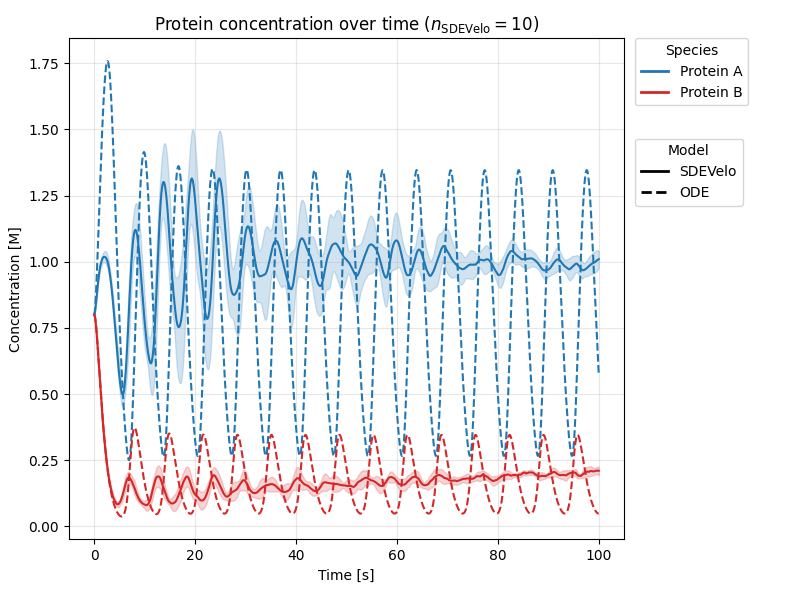
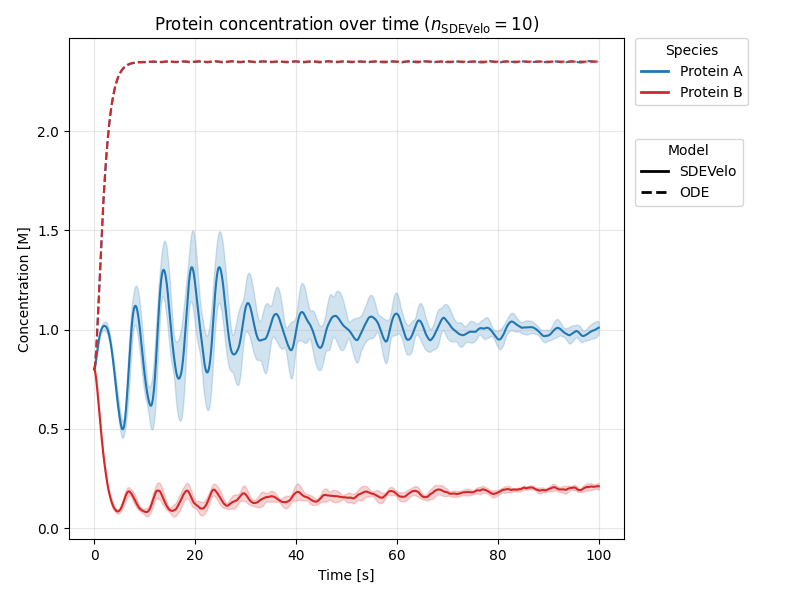
update plots (once again)

diff --git a/assignment2/main.py b/assignment2/main.py
@@ -301,7 +301,7 @@ def sdevelo_phase_portrait(
     label_ode="ODE Trajectory", 
     savefig=None, 
     title="", 
-    ode_args=(), 
+    ode_args=(False), 
     padding=0.1, 
     grid_size=20,
     show_vector_field=True
@@ -366,7 +366,6 @@ def sdevelo_phase_portrait(
 
     ax.plot(pA_sde, pB_sde, label=label_sde, color="tab:purple", zorder=4, alpha=0.6)
     ax.scatter(pA_sde[0], pB_sde[0], color="tab:purple", marker="o", zorder=5, label="Initial state (SDE)")
-    ax.scatter(pA_sde[-1], pB_sde[-1], color="tab:purple", marker="v", zorder=5, label="Final state (SDE)")
 
     ax.set_xlabel("Protein A Concentration [M]")
     ax.set_ylabel("Protein B Concentration [M]")
@@ -381,9 +380,8 @@ def sdevelo_phase_portrait(
         
     if sol_ode is not None:
         ode_start_proxy = Line2D([0], [0], color='tab:orange', marker='o', markersize=6, linestyle='None')
-        ode_end_proxy = Line2D([0], [0], color='tab:orange', marker='v', markersize=6, linestyle='None')
-        handles.extend([ode_start_proxy, ode_end_proxy])
-        labels.extend(["Initial state (ODE)", "Final state (ODE)"])
+        handles.extend([ode_start_proxy])
+        labels.extend(["Initial state (ODE)"])
 
     ax.legend(handles=handles, labels=labels, loc='best', fontsize='small')
     ax.set_title(title)
@@ -669,14 +667,15 @@ if __name__ == "__main__":
         savefig="sdevelo_phase_portrait",
     )
 
-    sdevelo_multiplot(
-        10,
-        dt,
-        steps,
-        sol_ode,
-        title="Protein concentration over time",
-        savefig="sdevelo_versus_ode",
-    )
+    # hijacked_ode = solve_ivp(patient_alpha_ode, [0, t_max], y0, t_eval=t_eval, args=(True,))
+    # sdevelo_multiplot(
+    #     10,
+    #     dt,
+    #     steps,
+    #     hijacked_ode,
+    #     title="Protein concentration over time",
+    #     savefig="sdevelo_versus_ode",
+    # )
 
     plot_sdevelo_concentrations(
         10,

diff --git a/assignment2/results.md b/assignment2/results.md
@@ -8,8 +8,8 @@ header-includes:
 
 # Assignment 2: Figures and tables
 
-![Phase Portrait of the Portein concentrations of Patient Beta](plots/sdevelo_concentration_over_time.png)
+![Phase Portrait of the Portein concentrations of Patient Beta](plots/sdevelo_phase_portrait.png)
 
-![Comparison of the (average) concentration of protein over time from ODE versus 10 SDEVelo simulations with 95% confidence interval](plots/sdevelo_concentrations_overt_time.png)
+![Comparison of the (average) concentration of protein over time from ODE versus 10 SDEVelo simulations with 95% confidence interval](plots/sdevelo_concentrations_over_time.png)
 
-![Average concentration of (un)spliced RNA and protein over time from 10 SDEVelo simulations with 95% confidence interval](plots/sdevelo_phase_portrait.png)
+![Average concentration of (un)spliced RNA and protein over time from 10 SDEVelo simulations with 95% confidence interval](plots/sdevelo_versus_ode.png)
